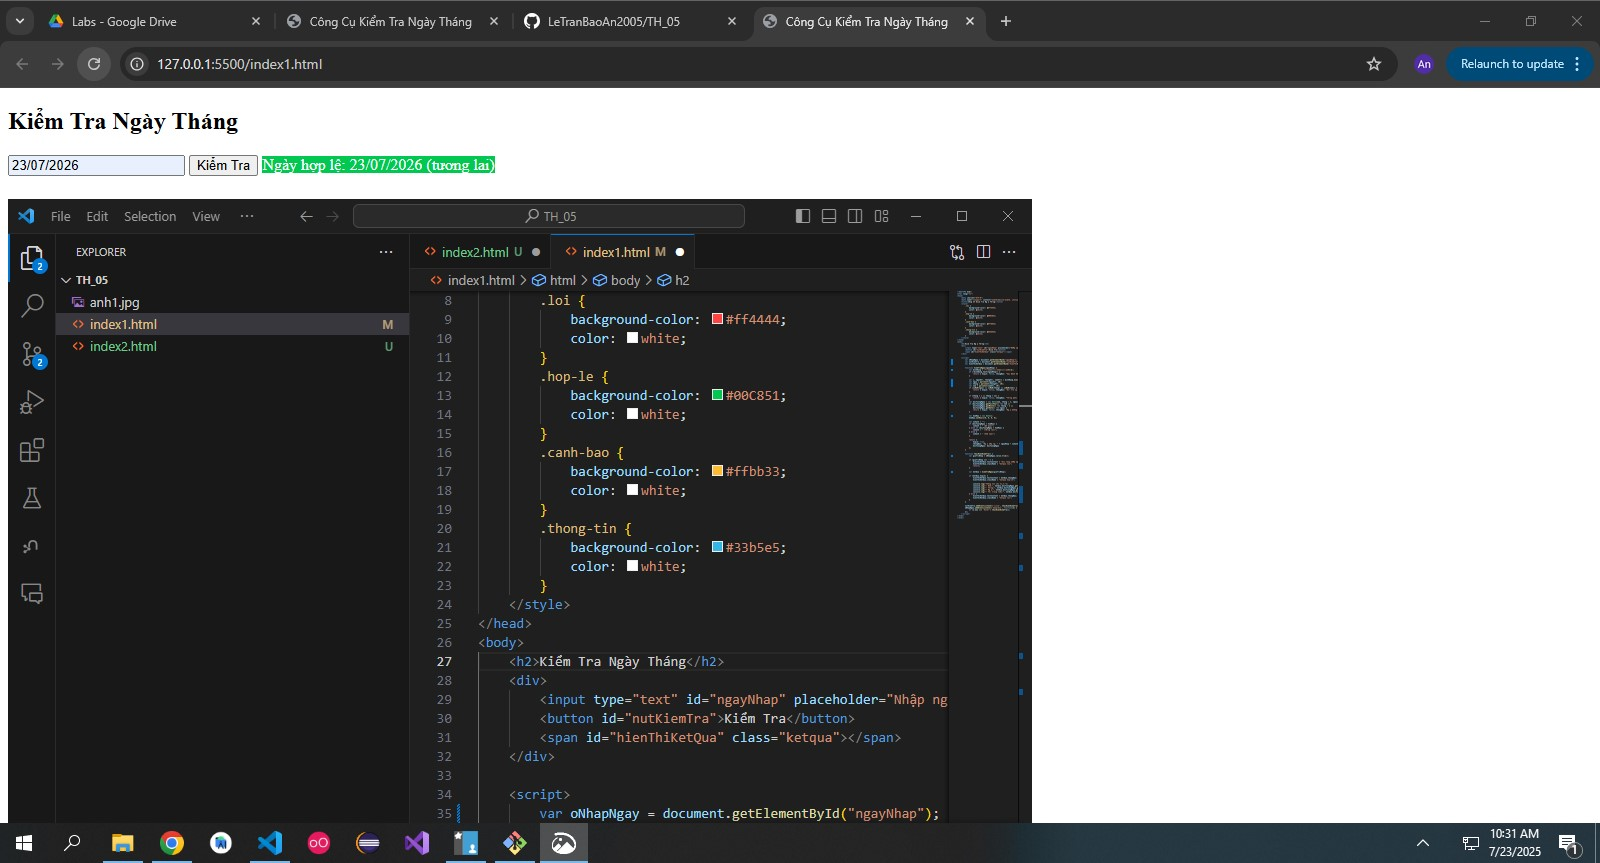
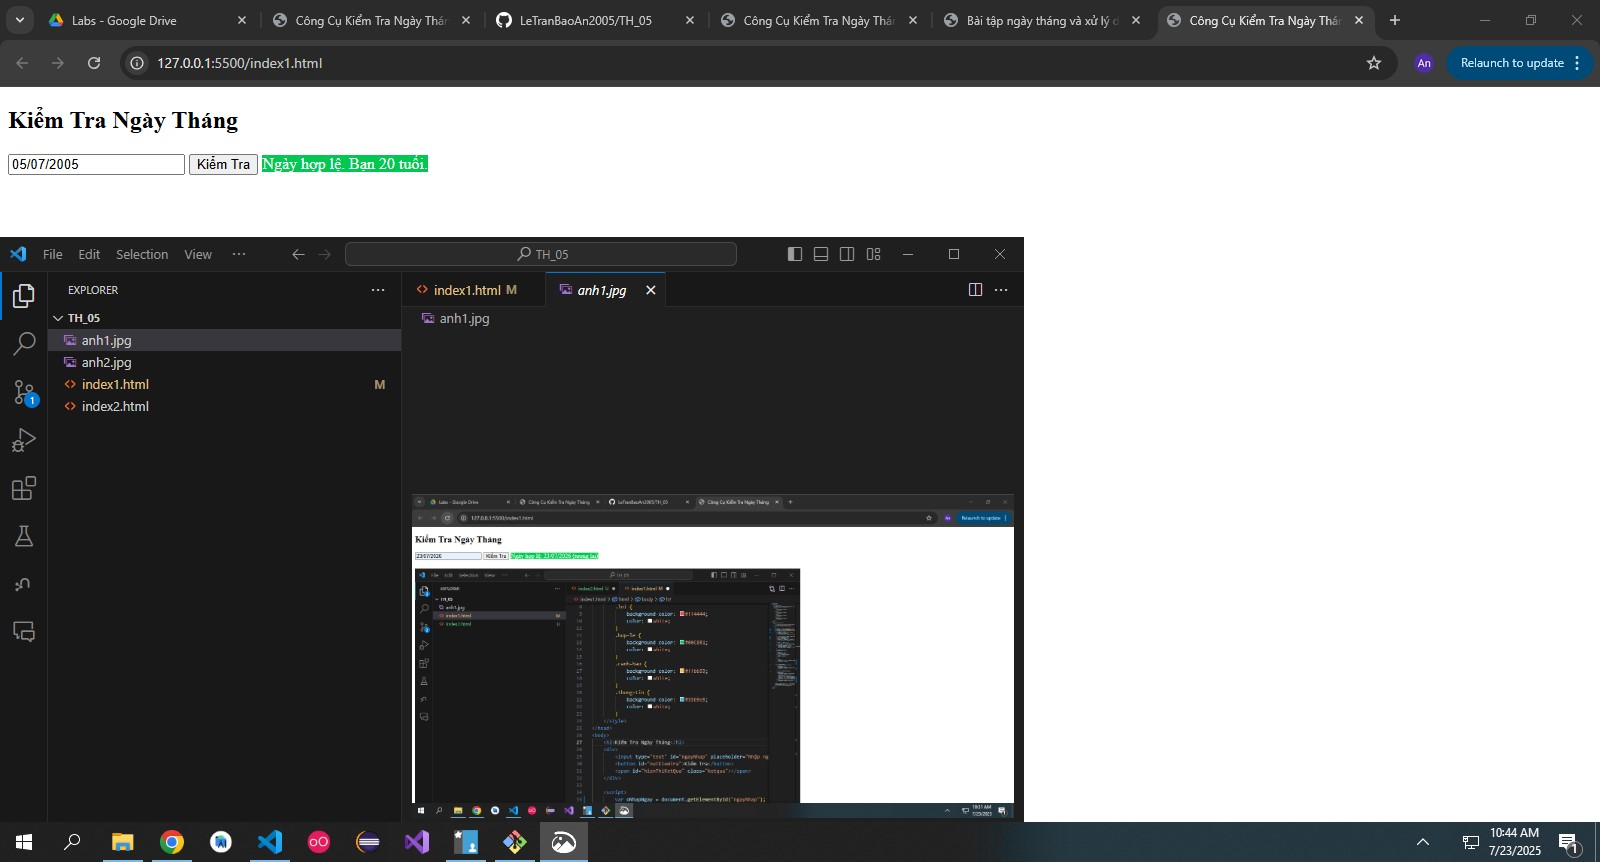
modify index1 + MC

diff --git a/index1.html b/index1.html
@@ -36,6 +36,20 @@
         var nutKiemTra = document.getElementById("nutKiemTra");
         var hienThiKetQua = document.getElementById("hienThiKetQua");
 
+        function tinhTuoi(ngaySinh) {
+            var homNay = new Date();
+            homNay.setHours(0, 0, 0, 0);
+            
+            var tuoi = homNay.getFullYear() - ngaySinh.getFullYear();
+            var thang = homNay.getMonth() - ngaySinh.getMonth();
+            
+            if (thang < 0 || (thang === 0 && homNay.getDate() < ngaySinh.getDate())) {
+                tuoi--;
+            }
+            
+            return tuoi;
+        }
+
         function kiemTraNgay(ngayNhap) {
             var dinhDang = /^(\d{2})\/(\d{2})\/(\d{4})$/;
             if (!dinhDang.test(ngayNhap)) {
@@ -91,14 +105,34 @@
             var ketQua = kiemTraNgay(giaTriNhap);
             
             if (ketQua.hopLe) {
-                hienThiKetQua.textContent = ketQua.thongBao;
-                hienThiKetQua.className = "ketqua hop-le";
+                var tuoi = tinhTuoi(ketQua.doiTuongNgay);
+                
+                if (tuoi < 18) {
+                    hienThiKetQua.textContent = `Bạn mới ${tuoi} tuổi. Chỉ chấp nhận từ 18 tuổi trở lên.`;
+                    hienThiKetQua.className = "ketqua canh-bao";
+                    return;
+                }
+                
+                var homNay = new Date();
+                homNay.setHours(0, 0, 0, 0);
+                
+                if (ketQua.doiTuongNgay < homNay) {
+                    hienThiKetQua.textContent = `Ngày hợp lệ. Bạn ${tuoi} tuổi.`;
+                    hienThiKetQua.className = "ketqua hop-le";
+                } else if (ketQua.doiTuongNgay > homNay) {
+                    hienThiKetQua.textContent = `Ngày hợp lệ (tương lai). Bạn sẽ ${tuoi} tuổi vào năm nay.`;
+                    hienThiKetQua.className = "ketqua thong-tin";
+                } else {
+                    hienThiKetQua.textContent = "Chính là hôm nay!";
+                    hienThiKetQua.className = "ketqua hop-le";
+                }
                 
                 console.log("Thông tin chi tiết:");
                 console.log("- Năm:", ketQua.doiTuongNgay.getFullYear());
                 console.log("- Tháng:", ketQua.doiTuongNgay.getMonth() + 1);
                 console.log("- Ngày:", ketQua.doiTuongNgay.getDate());
                 console.log("- Thứ trong tuần:", ketQua.doiTuongNgay.getDay());
+                console.log("- Tuổi tính được:", tuoi);
             } else {
                 hienThiKetQua.textContent = ketQua.thongBao;
                 hienThiKetQua.className = "ketqua loi";
